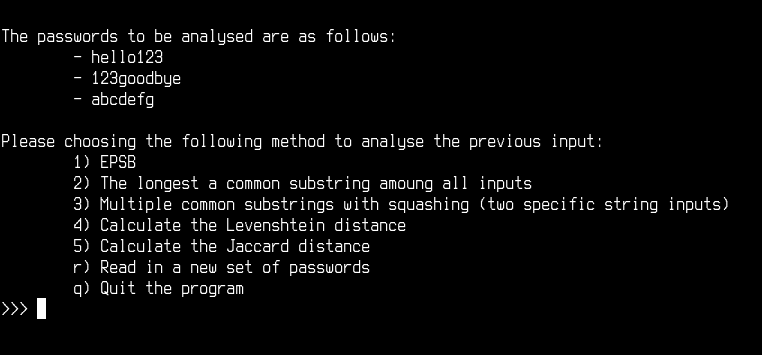
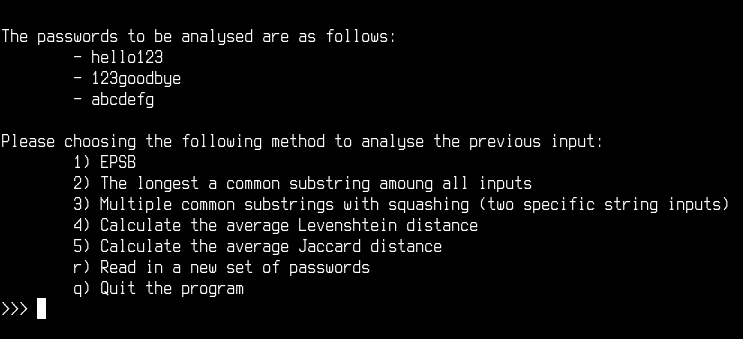
updated readme with aver lev and jac w/ picture

Changed region(s): [[0.0, 0.3835, 0.9906, 0.885], [0.0, 0.059, 0.5262, 0.3245], [0.0, 0.826, 0.0619, 0.944]]

diff --git a/README.md b/README.md
@@ -18,12 +18,12 @@ I'm proud to announce that our the Multi Tester Tool is has officially reached v
 The Multi Tester Tool now has the following features:
 
 1. EPSB
-2. The longest a common substring amoung all inputs
+2. The longest a common substring among all inputs
 3. Multiple common substrings with squashing (two specific string inputs)
-4. Calculate the Levenshtein distance (between the first two passwords)
-5. Calculate the Jaccard distance (between the first two passwords)
+4. Calculate the average Levenshtein distance
+5. Calculate the average Jaccard distance
 
-Ovcourse, all of these features are compatable with the list of (any size) of strings that the user provides.
+Of course, all of these features are compatible with the list of (any size) of strings that the user provides.
 
 ## How to Run: Testing the Algorithm's Speed on Different Machines 
 I realized that on some machines the different algorithms don't scale quite right.
@@ -35,7 +35,7 @@ The following instructions only work on Linux and MacOS (actually I'm not sure a
 2. cd /USCA_Capstone_DylanLott_BrandonWeathers/
 3. ./TestingScript.sh
 
-# Example of Stastical Analysis
+# Example of Statistical Analysis
 <img alt="StasticalAnalysis" src="./ExampleOfGraphedPasswords.png">
 
 ## Notes
